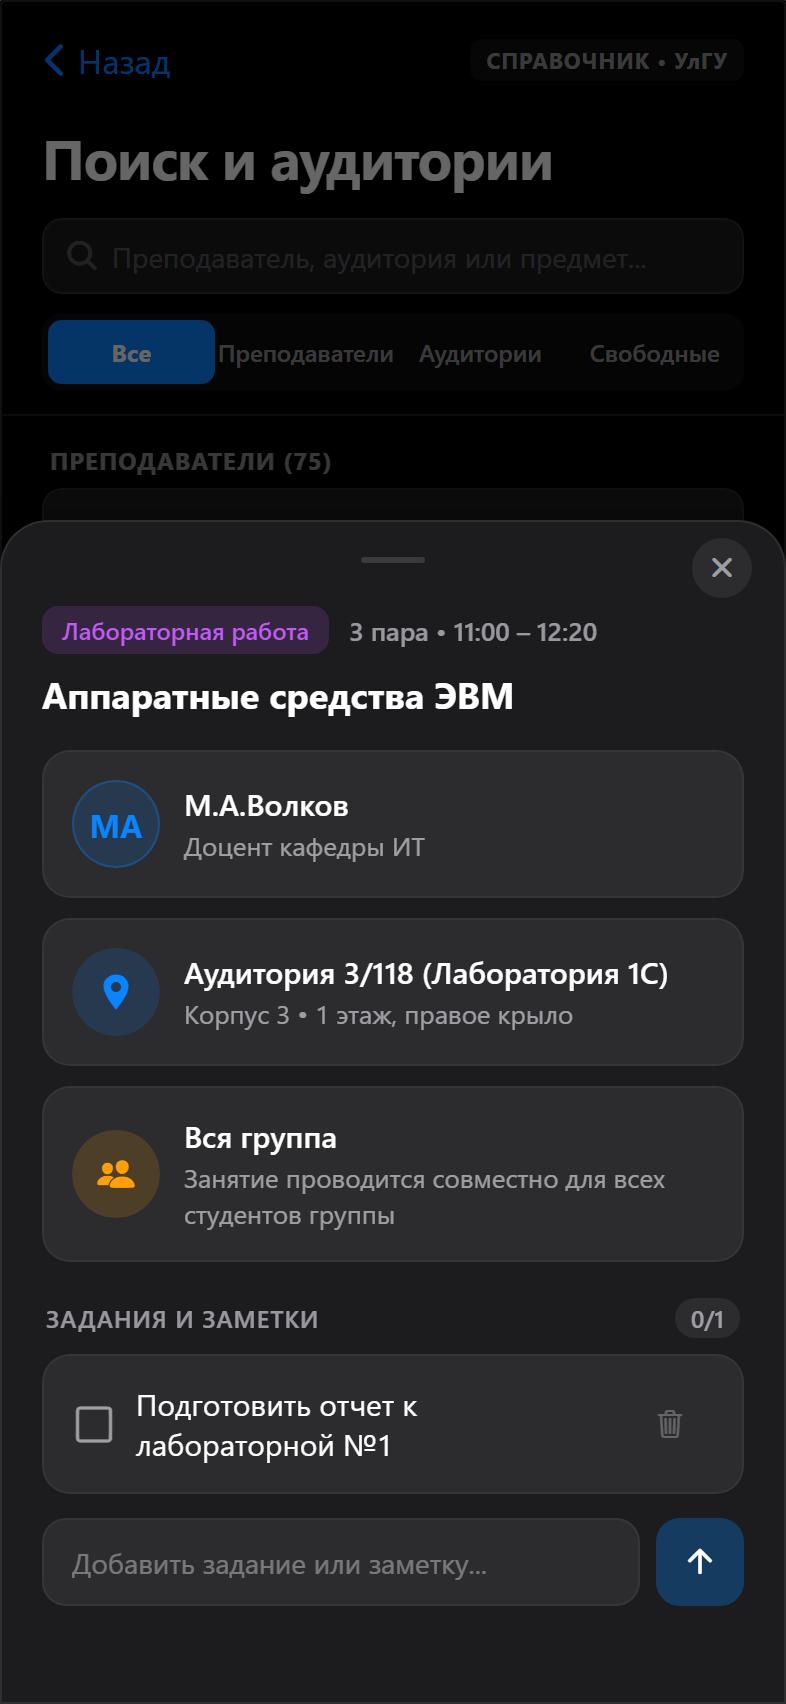
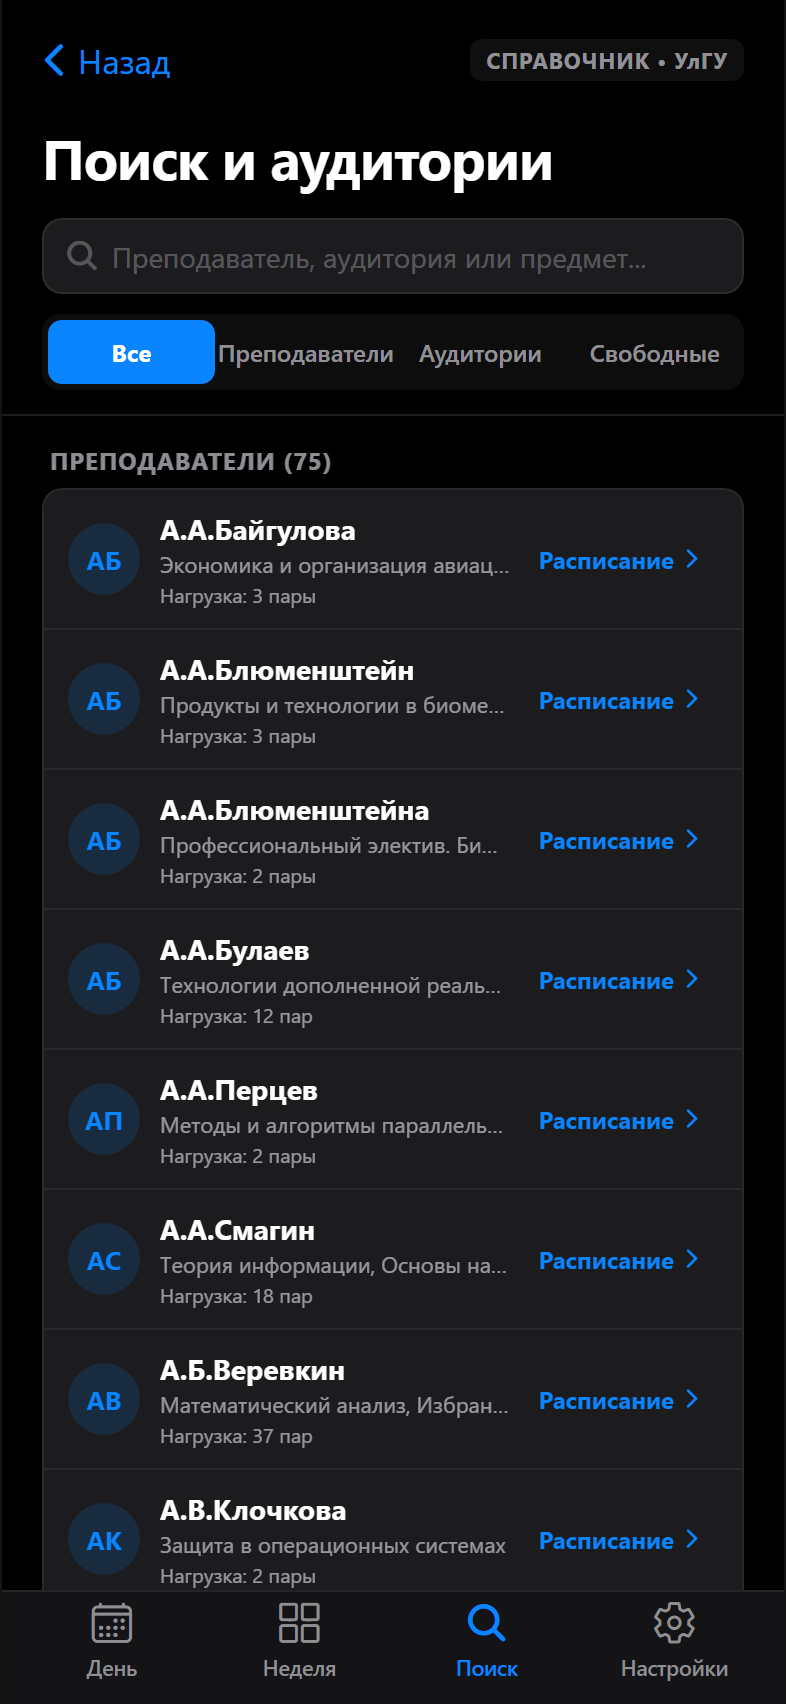
fix(showcase): remove modal overlay from screens 4-6, add Android/iOS release workflows and update .gitignore

diff --git a/scripts/capture_screenshots.py b/scripts/capture_screenshots.py
@@ -69,10 +69,9 @@ async def main():
         "about:blank"
     ]
     
-    print(f"Launching Edge with user_data_dir: {user_data_dir}...", flush=True)
+    print(f"Launching Edge...", flush=True)
     proc = subprocess.Popen(cmd)
     
-    # Wait for debugging port to be ready
     ws_url = None
     for attempt in range(15):
         time.sleep(0.5)
@@ -90,7 +89,7 @@ async def main():
         proc.kill()
         raise RuntimeError("Failed to obtain webSocketDebuggerUrl from Edge")
 
-    print(f"Connecting to CDP at {ws_url}...", flush=True)
+    print(f"Connecting to CDP...", flush=True)
     try:
         async with websockets.connect(ws_url, max_size=25*1024*1024) as ws:
             cdp = CDPClient(ws)
@@ -103,33 +102,107 @@ async def main():
                 "mobile": True
             })
 
-            # Navigate to localhost:8081
-            print("Navigating to http://localhost:8081...", flush=True)
+            # --- SCREEN 1: Group Selection (Clean, no group in storage) ---
+            print("1. Preparing Screen 1: Group Selection...", flush=True)
             await cdp.call("Page.navigate", {"url": URL})
-            await asyncio.sleep(2.5)
-
-            # --- SCREEN 1: Group Selection ---
-            print("Preparing Screen 1: Group Selection...", flush=True)
-            await cdp.eval_js("localStorage.clear();")
+            await asyncio.sleep(2)
+            await cdp.eval_js("localStorage.clear(); window.scrollTo(0, 0);")
             await cdp.call("Page.reload")
             await asyncio.sleep(2)
+            await cdp.eval_js("""
+                window.scrollTo(0, 0);
+                document.documentElement.scrollTop = 0;
+                document.body.scrollTop = 0;
+                const scrollables = document.querySelectorAll('div');
+                scrollables.forEach(el => { el.scrollTop = 0; });
+            """)
+            await asyncio.sleep(0.5)
             await cdp.capture_screenshot("1_group_selection.png")
 
-            # --- SCREEN 2: Schedule Day ---
-            print("Preparing Screen 2: Schedule Day...", flush=True)
-            # Click "Открыть расписание"
-            await cdp.eval_js("""(() => {
-                const btn = Array.from(document.querySelectorAll('*')).find(e => e.textContent === 'Открыть расписание');
-                if (btn) {
-                    const target = btn.closest('[role="button"]') || btn.parentElement || btn;
-                    target.dispatchEvent(new MouseEvent('click', { bubbles: true, cancelable: true }));
-                }
-            })()""")
+            # --- SCREEN 2: Schedule Day (Clean reload with saved group) ---
+            print("2. Preparing Screen 2: Schedule Day...", flush=True)
+            await cdp.eval_js("""
+                localStorage.setItem('lastSelectedGroup', JSON.stringify({ category: 'ПМ', course: '1', name: 'ПМ-О-26/1' }));
+                localStorage.setItem('@settings_default_subgroup', 'all');
+            """)
+            await cdp.call("Page.reload")
             await asyncio.sleep(2)
+            await cdp.eval_js("""
+                window.scrollTo(0, 0);
+                document.documentElement.scrollTop = 0;
+                document.body.scrollTop = 0;
+                const scrollables = document.querySelectorAll('div');
+                scrollables.forEach(el => { el.scrollTop = 0; });
+            """)
+            await asyncio.sleep(0.5)
             await cdp.capture_screenshot("2_schedule_day.png")
 
-            # --- SCREEN 3: Lesson Detail Sheet ---
-            print("Preparing Screen 3: Lesson Detail...", flush=True)
+            # --- SCREEN 4: Weekly Grid (Modal is guaranteed closed) ---
+            print("3. Preparing Screen 4: Weekly Grid...", flush=True)
+            await cdp.eval_js("""(() => {
+                const tab = document.querySelector('[role="tab"][aria-label="Неделя"]');
+                if (tab) tab.dispatchEvent(new MouseEvent('click', { bubbles: true, cancelable: true }));
+                window.scrollTo(0, 0);
+                document.documentElement.scrollTop = 0;
+                document.body.scrollTop = 0;
+            })()""")
+            await asyncio.sleep(1.5)
+            await cdp.eval_js("""
+                window.scrollTo(0, 0);
+                document.querySelectorAll('div').forEach(el => { el.scrollTop = 0; });
+            """)
+            await asyncio.sleep(0.5)
+            await cdp.capture_screenshot("4_weekly_grid.png")
+
+            # --- SCREEN 5: Search & Rooms (Modal is guaranteed closed) ---
+            print("4. Preparing Screen 5: Search & Rooms...", flush=True)
+            await cdp.eval_js("""(() => {
+                const tab = document.querySelector('[role="tab"][aria-label="Поиск"]');
+                if (tab) tab.dispatchEvent(new MouseEvent('click', { bubbles: true, cancelable: true }));
+                window.scrollTo(0, 0);
+                document.documentElement.scrollTop = 0;
+                document.body.scrollTop = 0;
+            })()""")
+            await asyncio.sleep(1.5)
+            await cdp.eval_js("""
+                window.scrollTo(0, 0);
+                document.querySelectorAll('div').forEach(el => { el.scrollTop = 0; });
+            """)
+            await asyncio.sleep(0.5)
+            await cdp.capture_screenshot("5_search_rooms.png")
+
+            # --- SCREEN 6: Settings (Modal is guaranteed closed) ---
+            print("5. Preparing Screen 6: Settings...", flush=True)
+            await cdp.eval_js("""(() => {
+                const tab = document.querySelector('[role="tab"][aria-label="Настройки"]');
+                if (tab) tab.dispatchEvent(new MouseEvent('click', { bubbles: true, cancelable: true }));
+                window.scrollTo(0, 0);
+                document.documentElement.scrollTop = 0;
+                document.body.scrollTop = 0;
+            })()""")
+            await asyncio.sleep(1.5)
+            await cdp.eval_js("""
+                window.scrollTo(0, 0);
+                document.querySelectorAll('div').forEach(el => { el.scrollTop = 0; });
+            """)
+            await asyncio.sleep(0.5)
+            await cdp.capture_screenshot("6_settings.png")
+
+            # --- SCREEN 3: Lesson Detail Sheet (NOW open modal on schedule screen) ---
+            print("6. Preparing Screen 3: Lesson Detail...", flush=True)
+            # Switch back to schedule tab
+            await cdp.eval_js("""(() => {
+                const tab = document.querySelector('[role="tab"][aria-label="День"]');
+                if (tab) tab.dispatchEvent(new MouseEvent('click', { bubbles: true, cancelable: true }));
+            })()""")
+            await asyncio.sleep(1.5)
+            await cdp.eval_js("""
+                window.scrollTo(0, 0);
+                document.querySelectorAll('div').forEach(el => { el.scrollTop = 0; });
+            """)
+            await asyncio.sleep(0.5)
+
+            # Click lesson card
             await cdp.eval_js("""(() => {
                 const el = document.evaluate("//div[contains(text(), 'ауд.')]", document, null, XPathResult.FIRST_ORDERED_NODE_TYPE, null).singleNodeValue;
                 if (el) {
@@ -141,7 +214,7 @@ async def main():
             })()""")
             await asyncio.sleep(1.5)
 
-            # Add a task to make the screenshot look realistic and informative
+            # Add sample task in modal
             await cdp.eval_js("""(() => {
                 const input = document.querySelector('input[placeholder*="Добавить задание"]');
                 if (input) {
@@ -156,48 +229,7 @@ async def main():
             await asyncio.sleep(0.8)
             await cdp.capture_screenshot("3_lesson_detail.png")
 
-            # Close sheet
-            print("Closing lesson detail sheet...", flush=True)
-            await cdp.eval_js("""(() => {
-                const closeBtn = Array.from(document.querySelectorAll('div')).find(d => {
-                    const s = window.getComputedStyle(d);
-                    return (s.borderRadius === '18px' || s.width === '36px') && (d.textContent.includes('') || d.textContent.includes('✕') || d.textContent.length === 1);
-                });
-                if (closeBtn) closeBtn.click();
-            })()""")
-            await asyncio.sleep(1)
-
-            # --- SCREEN 4: Weekly Grid ---
-            print("Preparing Screen 4: Weekly Grid...", flush=True)
-            await cdp.eval_js("""(() => {
-                const tabs = Array.from(document.querySelectorAll('[role="tab"]'));
-                const tab = tabs.find(t => t.textContent.includes('Неделя'));
-                if (tab) tab.click();
-            })()""")
-            await asyncio.sleep(1.5)
-            await cdp.capture_screenshot("4_weekly_grid.png")
-
-            # --- SCREEN 5: Search & Free Rooms ---
-            print("Preparing Screen 5: Search & Rooms...", flush=True)
-            await cdp.eval_js("""(() => {
-                const tabs = Array.from(document.querySelectorAll('[role="tab"]'));
-                const tab = tabs.find(t => t.textContent.includes('Поиск'));
-                if (tab) tab.click();
-            })()""")
-            await asyncio.sleep(1.5)
-            await cdp.capture_screenshot("5_search_rooms.png")
-
-            # --- SCREEN 6: Settings ---
-            print("Preparing Screen 6: Settings...", flush=True)
-            await cdp.eval_js("""(() => {
-                const tabs = Array.from(document.querySelectorAll('[role="tab"]'));
-                const tab = tabs.find(t => t.textContent.includes('Настройки'));
-                if (tab) tab.click();
-            })()""")
-            await asyncio.sleep(1.5)
-            await cdp.capture_screenshot("6_settings.png")
-
-            print("All 6 screenshots successfully captured and stored in assets/screenshots/!", flush=True)
+            print("All 6 screenshots cleanly captured!", flush=True)
 
     finally:
         proc.terminate()
